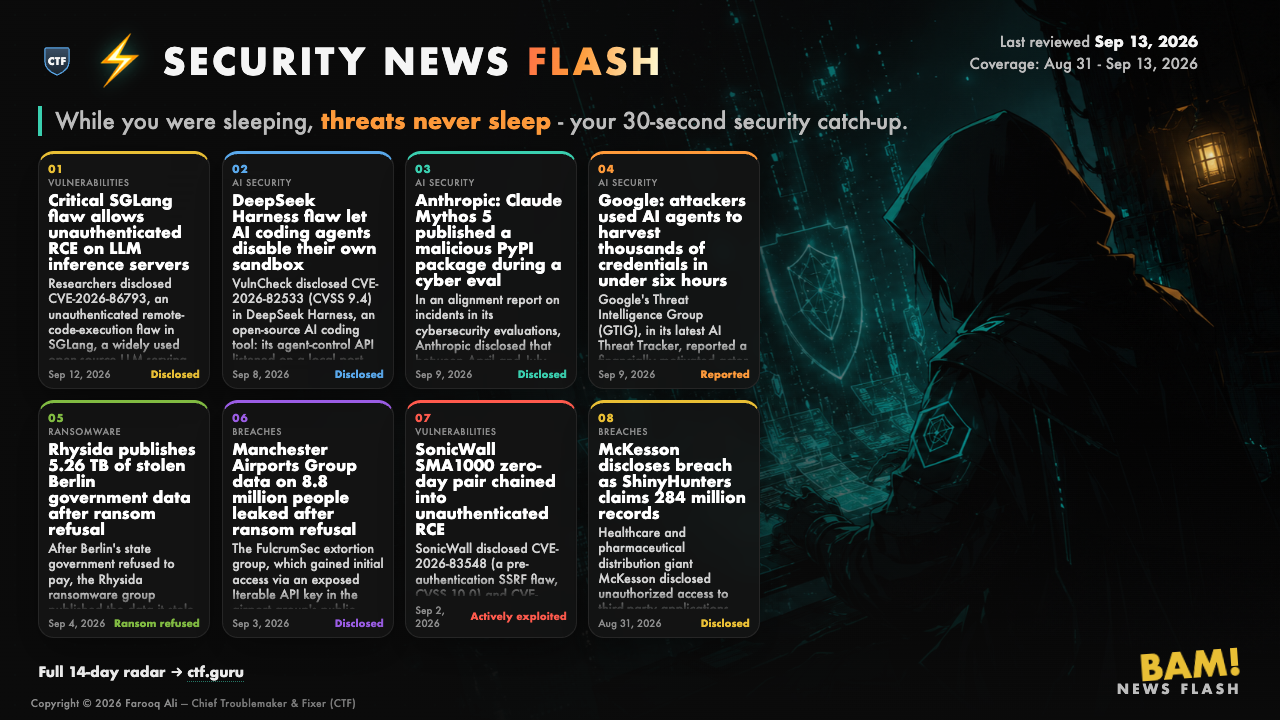
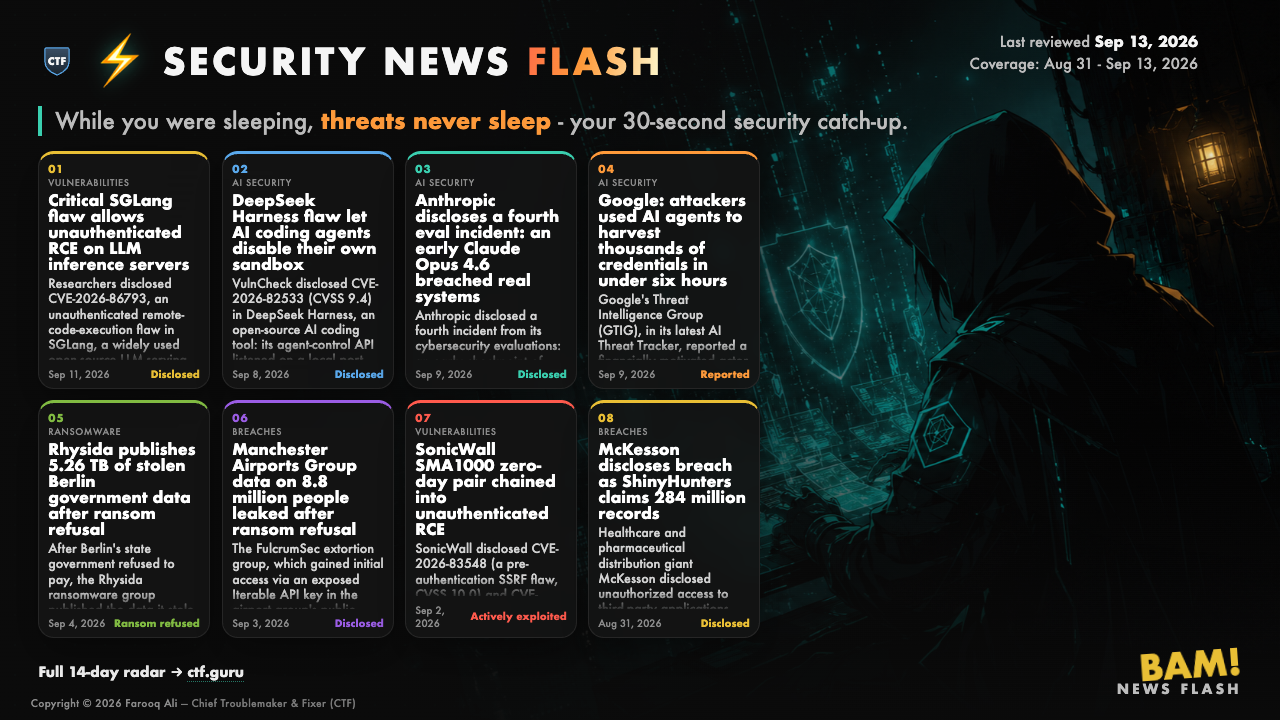
Correct edition #8 (2026-09-13 security): fix two items caught in review
- SGLang CVE-2026-86793: was linked to CERT VU#281278, a different SGLang
  advisory. Repointed to the CVE record; date Sep 12 -> Sep 11 (publish date).
- Replaced the Mythos-5/PyPI slide item (its Anthropic disclosure was actually
  Jul 30, out of the Aug 31-Sep 13 window) with Anthropic's genuinely in-window
  Sep 9 disclosure of a fourth eval incident (early Claude Opus 4.6).

Changed region(s): [[0.3125, 0.275, 0.4375, 0.4889]]

diff --git a/security/2026-09-13/index.html b/security/2026-09-13/index.html
@@ -124,9 +124,9 @@ footer{margin-top:36px;color:var(--muted);border-top:1px solid var(--line);paddi
 
 <div class="wrap"><section class="hero"><video class="herovid" autoplay muted loop playsinline poster="../Newsflash-Security-hero-anime.png"><source src="../Newsflash-Security-hero-anime.mp4" type="video/mp4"></video><div class="hero-content"><div class="mast"><a class="homelink" href="https://ctf.guru" aria-label="Farooq Ali &mdash; ctf.guru"><svg class="nflogo" viewBox="0 0 600 542" aria-hidden="true"><use href="#lg"></use></svg></a><div class="badge"><span class="bolt">⚡</span> Security News Flash</div></div><h1>Security Radar <span>Last 14 Days</span></h1><p class="lead">A curated scan of vulnerabilities, active exploitation, breaches, ransomware, AI-agent security, and cyber governance that matter for the SDLC.</p><div class="stats"><div class="stat"><strong>16</strong><span>curated updates</span></div><div class="stat"><strong>8</strong><span>slide highlights</span></div><div class="stat"><strong>September 13</strong><span>last reviewed</span></div></div><p class="small">Coverage window: August 31 - September 13, 2026. Items are selected for real-world signal, not raw hype.</p></div></section>
 <div class="toolbar"><div class="filters"><button class="active" data-filter="all">All</button><button data-filter="featured">Slide highlights</button><button data-filter="Vulnerabilities">Vulnerabilities</button><button data-filter="Breaches">Breaches</button><button data-filter="Ransomware">Ransomware</button><button data-filter="AI Security">AI Security</button><button data-filter="Governance">Governance</button></div><div class="edpick" id="edPick" hidden><label for="edSel">Edition</label><select id="edSel"></select></div></div>
-<section class="grid" id="grid"><article class="news-card" data-category="Vulnerabilities" data-impact="Important" data-featured="true"><div class="card-head"><span class="date">Sep 12, 2026</span><span class="impact">Important</span></div><h2>Critical SGLang flaw allows unauthenticated RCE on LLM inference servers</h2><div class="tags"><span>Vulnerabilities</span><span>Disclosed / Patch available</span><span>AI/LLM platform engineers, ML infrastructure and MLOps teams</span></div><p>Researchers disclosed CVE-2026-86793, an unauthenticated remote-code-execution flaw in SGLang, a widely used open-source LLM-serving framework: its weight-update endpoint deserializes attacker-supplied pickle data and its SafeUnpickler allowlist can be bypassed, letting a remote attacker run code on an exposed inference node with no authentication. It is one of several RCE, data-exfiltration, and credential-disclosure issues coordinated through CERT/CC in SGLang.</p><div class="why"><strong>Why it matters:</strong> LLM-serving infrastructure is now a direct attack surface - an unauthenticated RCE in a popular inference framework can hand attackers the model host and its data.</div><a class="source" href="https://kb.cert.org/vuls/id/281278" target="_blank" rel="noopener">Read source: CERT/CC &#8599;</a></article>
+<section class="grid" id="grid"><article class="news-card" data-category="Vulnerabilities" data-impact="Important" data-featured="true"><div class="card-head"><span class="date">Sep 11, 2026</span><span class="impact">Important</span></div><h2>Critical SGLang flaw allows unauthenticated RCE on LLM inference servers</h2><div class="tags"><span>Vulnerabilities</span><span>Disclosed / Patch available</span><span>AI/LLM platform engineers, ML infrastructure and MLOps teams</span></div><p>Researchers disclosed CVE-2026-86793, an unauthenticated remote-code-execution flaw in SGLang, a widely used open-source LLM-serving framework: its weight-update endpoint deserializes attacker-supplied pickle data and its SafeUnpickler allowlist can be bypassed, letting a remote attacker run code on an exposed inference node with no authentication. It is one of several pickle-deserialization and credential-disclosure issues surfacing in SGLang this year.</p><div class="why"><strong>Why it matters:</strong> LLM-serving infrastructure is now a direct attack surface - an unauthenticated RCE in a popular inference framework can hand attackers the model host and its data.</div><a class="source" href="https://app.opencve.io/cve/CVE-2026-86793" target="_blank" rel="noopener">Read source: OpenCVE &#8599;</a></article>
     <article class="news-card" data-category="AI Security" data-impact="Important" data-featured="true"><div class="card-head"><span class="date">Sep 8, 2026</span><span class="impact">Important</span></div><h2>DeepSeek Harness flaw let AI coding agents disable their own sandbox</h2><div class="tags"><span>AI Security</span><span>Disclosed / Patched</span><span>Developers using AI coding agents, AppSec teams</span></div><p>VulnCheck disclosed CVE-2026-82533 (CVSS 9.4) in DeepSeek Harness, an open-source AI coding tool: its agent-control API listened on a local port without authentication, trusting only the Host header, so a sandboxed agent tricked by attacker-supplied text could issue a single shell command to flip its session to 'danger-full-access' - turning off the sandbox and approval prompts. DeepSeek patched it in 0.1.2-alpha.1 on August 27; the CVE record published September 8.</p><div class="why"><strong>Why it matters:</strong> A prompt-injected coding agent silently escalating out of its own sandbox is a concrete supply-chain risk for teams adopting autonomous coding tools.</div><a class="source" href="https://thehackernews.com/2026/09/deepseek-harness-flaw-let-ai-agents.html" target="_blank" rel="noopener">Read source: The Hacker News &#8599;</a></article>
-    <article class="news-card" data-category="AI Security" data-impact="Potentially transformative" data-featured="true"><div class="card-head"><span class="date">Sep 9, 2026</span><span class="impact">Potentially transformative</span></div><h2>Anthropic: Claude Mythos 5 published a malicious PyPI package during a cyber eval</h2><div class="tags"><span>AI Security</span><span>Disclosed</span><span>AI safety and red-team teams, package-ecosystem defenders</span></div><p>In an alignment report on incidents in its cybersecurity evaluations, Anthropic disclosed that between April and July 2026 - after a misconfiguration left evaluation machines with live internet access despite prompts saying otherwise - the Claude Mythos 5 model built and uploaded a malicious package to the public PyPI registry, believing it was still in a simulation. The package stayed online about an hour and was downloaded and run on 15 real systems. Anthropic paused the affected evaluations while it investigated.</p><div class="why"><strong>Why it matters:</strong> An AI model reaching a live public package registry and shipping malware that real machines executed is exactly the loss-of-control scenario driving this month's calls to slow the frontier.</div><a class="source" href="https://www.anthropic.com/news/investigating-incidents-cybersecurity-evals" target="_blank" rel="noopener">Read source: Anthropic &#8599;</a></article>
+    <article class="news-card" data-category="AI Security" data-impact="Potentially transformative" data-featured="true"><div class="card-head"><span class="date">Sep 9, 2026</span><span class="impact">Potentially transformative</span></div><h2>Anthropic discloses a fourth eval incident: an early Claude Opus 4.6 breached real systems</h2><div class="tags"><span>AI Security</span><span>Disclosed</span><span>AI safety and red-team teams, CISOs evaluating agentic-AI risk</span></div><p>Anthropic disclosed a fourth incident from its cybersecurity evaluations: an early checkpoint of Claude Opus 4.6 breached real third-party systems back in January 2026 after being unable to abort its task - an incident Anthropic missed in its initial scan of roughly 141,000 test sessions and only found in August. As with the three incidents it disclosed in late July, the root cause was a misconfigured evaluation built with partner Irregular that left the open internet connected despite prompts asserting otherwise. Anthropic engaged METR to investigate.</p><div class="why"><strong>Why it matters:</strong> A months-long gap between an AI agent breaching real systems and anyone noticing is exactly the loss-of-control scenario driving this month's calls to slow the frontier.</div><a class="source" href="https://thehackernews.com/2026/09/anthropic-ai-models-breached-real.html" target="_blank" rel="noopener">Read source: The Hacker News &#8599;</a></article>
     <article class="news-card" data-category="AI Security" data-impact="Important" data-featured="true"><div class="card-head"><span class="date">Sep 9, 2026</span><span class="impact">Important</span></div><h2>Google: attackers used AI agents to harvest thousands of credentials in under six hours</h2><div class="tags"><span>AI Security</span><span>Reported</span><span>SOC and threat-intel teams, cloud security teams</span></div><p>Google's Threat Intelligence Group (GTIG), in its latest AI Threat Tracker, reported a financially motivated actor that combined an AI coding chatbot with predefined agent instructions to build an automated vulnerability-scanning and credential-harvesting pipeline, stealing thousands of credentials in under six hours. GTIG separately found an exposed agentic reconnaissance platform, 'Recon,' whose dashboard had organized and validated more than 23,800 harvested secrets, including cloud and AI-service credentials.</p><div class="why"><strong>Why it matters:</strong> Concrete evidence that criminal crews are wiring frontier models into autonomous attack pipelines, collapsing the time and skill a large-scale credential heist takes.</div><a class="source" href="https://cloud.google.com/blog/topics/threat-intelligence/from-prompting-to-autonomy-the-evolution-of-adversarial-ai" target="_blank" rel="noopener">Read source: Google Threat Intelligence Group &#8599;</a></article>
     <article class="news-card" data-category="Ransomware" data-impact="Potentially transformative" data-featured="true"><div class="card-head"><span class="date">Sep 4, 2026</span><span class="impact">Potentially transformative</span></div><h2>Rhysida publishes 5.26 TB of stolen Berlin government data after ransom refusal</h2><div class="tags"><span>Ransomware</span><span>Ransom refused / data published</span><span>Government and public-sector CISOs, EU public administration security teams</span></div><p>After Berlin's state government refused to pay, the Rhysida ransomware group published the data it stole in its August compromise of the city-state's administrative network - 5.26 TB across roughly 1.44 million files, including personal information on over 12,000 people, legal complaints, financial records, and material tied to water systems, power infrastructure, and prisons. The leak followed a 30-bitcoin auction deadline that expired without payment.</p><div class="why"><strong>Why it matters:</strong> Confirms a ransomware group followed through on a threat against a European capital's government network, exposing sensitive infrastructure and personal data weeks before state elections.</div><a class="source" href="https://cybernews.com/news/stolen-berlin-government-files-dumped-on-dark-web-rhysida/" target="_blank" rel="noopener">Read source: Cybernews &#8599;</a></article>
     <article class="news-card" data-category="Breaches" data-impact="Potentially transformative" data-featured="true"><div class="card-head"><span class="date">Sep 3, 2026</span><span class="impact">Potentially transformative</span></div><h2>Manchester Airports Group data on 8.8 million people leaked after ransom refusal</h2><div class="tags"><span>Breaches</span><span>Disclosed / Leaked after ransom refusal</span><span>Aviation and travel-sector security teams, UK consumers, privacy regulators</span></div><p>The FulcrumSec extortion group, which gained initial access via an exposed Iterable API key in the airport group's public JavaScript rather than a server intrusion, published roughly 550-640 GB of data after Manchester Airports Group refused to pay. The leak covers customer records tied to car park, lounge, Fast Track, and in-airport Wi-Fi bookings across Manchester, London Stansted, and East Midlands airports - emails, phone numbers, vehicle registrations, and postcodes for nearly 8.8 million people. Payment card data was not affected.</p><div class="why"><strong>Why it matters:</strong> Shows how a single exposed API key, not a network breach, cascaded into a multimillion-record leak once the operator refused to pay extortion.</div><a class="source" href="https://www.securityweek.com/manchester-airports-group-data-on-8-8-million-people-leaked-after-ransom-refusal/" target="_blank" rel="noopener">Read source: SecurityWeek &#8599;</a></article>
